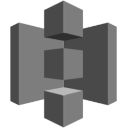
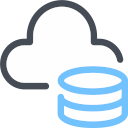
ui backup: add azure and generic S3 repository
Other changes:
- improve repository placeholders
- change generic S3 icon

diff --git a/core/ui/src/components/backup/AddRepositoryModal.vue b/core/ui/src/components/backup/AddRepositoryModal.vue
@@ -58,7 +58,6 @@
                   value="providerValue"
                   @click="selectAzure()"
                   class="provider-card"
-                  disabled
                 >
                   <div class="provider-card-content">
                     <div class="provider-icon">
@@ -105,7 +104,6 @@
                   value="providerValue"
                   @click="selectGenericS3()"
                   class="provider-card"
-                  disabled
                 >
                   <div class="provider-card-content">
                     <div class="provider-icon">
@@ -135,7 +133,7 @@
             :label="$t('backup.url')"
             v-model.trim="url"
             :invalid-message="error.url"
-            :placeholder="$t('backup.url_placeholder')"
+            :placeholder="$t('backup.'+selectedProviderHelper)"
             :disabled="loading.addBackupRepository"
             :prefix="selectedProviderPrefix"
             ref="url"
@@ -192,9 +190,47 @@
             ></cv-text-input>
           </template>
           <!-- azure -->
-          <template v-if="isAzureSelected"> azure //// </template>
+          <template v-if="isAzureSelected">
+            <cv-text-input
+              :label="$t('backup.azure_account_name')"
+              v-model.trim="azure.azure_account_name"
+              :invalid-message="error.azure.azure_account_name"
+              :disabled="loading.addBackupRepository"
+              ref="azure_account_name"
+            >
+            </cv-text-input>
+            <cv-text-input
+              :label="$t('backup.azure_account_key')"
+              type="password"
+              v-model.trim="azure.azure_account_key"
+              :disabled="loading.addBackupRepository"
+              :invalid-message="error.aws.azure_account_key"
+              :password-hide-label="$t('password.hide_password')"
+              :password-show-label="$t('password.show_password')"
+              ref="azure_account_key"
+            ></cv-text-input>
+             </template>
           <!-- generic s3 -->
-          <template v-if="isGenericS3Selected"> generic s3 //// </template>
+          <template v-if="isGenericS3Selected">
+            <cv-text-input
+              :label="$t('backup.genericS3_access_key_id')"
+              v-model.trim="genericS3.aws_access_key_id"
+              :invalid-message="error.genericS3.aws_access_key_id"
+              :disabled="loading.addBackupRepository"
+              ref="genericS3_access_key_id"
+            >
+            </cv-text-input>
+            <cv-text-input
+              :label="$t('backup.genericS3_secret_access_key')"
+              type="password"
+              v-model.trim="genericS3.aws_secret_access_key"
+              :disabled="loading.addBackupRepository"
+              :invalid-message="error.genericS3.aws_secret_access_key"
+              :password-hide-label="$t('password.hide_password')"
+              :password-show-label="$t('password.show_password')"
+              ref="genericS3_secret_access_key"
+            ></cv-text-input>
+          </template>
           <!-- //// handle ALL providers -->
           <cv-text-input
             :label="$t('backup.repository_name')"
@@ -278,10 +314,14 @@ export default {
         repoPrefix: "s3:s3.amazonaws.com/",
       },
       genericS3: {
-        repoPrefix: "",
+        aws_access_key_id: "",
+        aws_secret_access_key: "",
+        repoPrefix: "s3:",
       },
       azure: {
-        repoPrefix: "",
+        azure_account_key: "",
+        azure_account_name: "",
+        repoPrefix: "azure:",
       },
       //// handle all providers
       loading: {
@@ -301,8 +341,14 @@ export default {
           aws_default_region: "",
           aws_secret_access_key: "",
         },
-        genericS3: {},
-        azure: {},
+        genericS3: {
+          aws_access_key_id: "",
+          aws_default_region: "",
+        },
+        azure: {
+          azure_account_key: "",
+          azure_account_name: "",
+        },
         //// handle all providers
       },
     };
@@ -337,7 +383,20 @@ export default {
     selectedProviderPrefix() {
       return this[this.selectedProvider].repoPrefix;
     },
-  },
+    selectedProviderHelper() {
+      if (this.isBackblazeSelected) {
+        return "backblaze_placeholder";
+      } else if (this.isAmazonS3Selected) {
+        return "aws_placeholder";
+      } else if (this.isGenericS3Selected) {
+        return "s3_placeholder";
+      } else if (this.isAzureSelected) {
+        return "azure_placeholder";
+      } else {
+        return 'url_placeholder';
+      }
+    }
+     },
   watch: {
     isShown: function () {
       if (this.isShown) {
@@ -391,6 +450,12 @@ export default {
       this.aws.aws_access_key_id = "";
       this.aws.aws_default_region = "";
       this.aws.aws_secret_access_key = "";
+
+      this.genericS3.aws_access_key_id = "";
+      this.genericS3.aws_secret_access_key = "";
+
+      this.azure.azure_account_name = "";
+      this.azure.azure_account_key = "";
 
       //// handle ALL providers
     },
@@ -447,10 +512,15 @@ export default {
             aws_access_key_id: this.aws.aws_access_key_id,
             aws_secret_access_key: this.aws.aws_secret_access_key,
           };
+        case "genericS3":
+          return {
+            aws_access_key_id: this.genericS3.aws_access_key_id,
+            aws_secret_access_key: this.genericS3.aws_secret_access_key,
+          };
         case "azure":
           return {
-            azure_account_name: "",
-            azure_account_key: "",
+            azure_account_name: this.azure.azure_account_name,
+            azure_account_key: this.azure.azure_account_key,
           };
       }
       //// handle all providers
@@ -582,16 +652,113 @@ export default {
       this.error.name = "";
       this.error.url = "";
       this.error.repoConnection = "";
-      console.error("not implemented");
-      return false;
+
+      this.error.genericS3.aws_access_key_id = "";
+      this.error.genericS3.aws_default_region = "";
+      this.error.genericS3.aws_secret_access_key = "";
+
+      let isValidationOk = true;
+
+      if (!this.url) {
+        this.error.url = this.$t("common.required");
+
+        if (isValidationOk) {
+          this.focusElement("url");
+          isValidationOk = false;
+        }
+      } else if (this.url.includes(" ")) {
+        // wrong url protocol
+        this.error.url = this.$t("backup.invalid_url");
+
+        if (isValidationOk) {
+          this.focusElement("url");
+          isValidationOk = false;
+        }
+      }
+
+      if (!this.genericS3.aws_access_key_id) {
+        this.error.genericS3.aws_access_key_id = this.$t("common.required");
+
+        if (isValidationOk) {
+          this.focusElement("genericS3_access_key_id");
+          isValidationOk = false;
+        }
+      }
+
+      if (!this.genericS3.aws_secret_access_key) {
+        this.error.genericS3.aws_secret_access_key = this.$t("common.required");
+
+        if (isValidationOk) {
+          this.focusElement("genericS3_secret_access_key");
+          isValidationOk = false;
+        }
+      }
+
+      if (!this.name) {
+        this.error.name = this.$t("common.required");
+
+        if (isValidationOk) {
+          this.focusElement("name");
+          isValidationOk = false;
+        }
+      }
+      return isValidationOk;
     },
     validateAddAzureRepository() {
       // clear errors
       this.error.name = "";
       this.error.url = "";
       this.error.repoConnection = "";
-      console.error("not implemented");
-      return false;
+
+      this.error.azure.azure_account_name = "";
+      this.error.azure.azure_account_key = "";
+
+      let isValidationOk = true;
+
+      if (!this.url) {
+        this.error.url = this.$t("common.required");
+
+        if (isValidationOk) {
+          this.focusElement("url");
+          isValidationOk = false;
+        }
+      } else if (this.url.includes(" ")) {
+        // wrong url protocol
+        this.error.url = this.$t("backup.invalid_url");
+
+        if (isValidationOk) {
+          this.focusElement("url");
+          isValidationOk = false;
+        }
+      }
+
+      if (!this.azure.azure_account_name) {
+        this.error.azure.azure_account_name = this.$t("common.required");
+
+        if (isValidationOk) {
+          this.focusElement("azure_account_name");
+          isValidationOk = false;
+        }
+      }
+
+      if (!this.azure.azure_account_key) {
+        this.error.azure.azure_account_key = this.$t("common.required");
+
+        if (isValidationOk) {
+          this.focusElement("azure_account_key");
+          isValidationOk = false;
+        }
+      }
+
+      if (!this.name) {
+        this.error.name = this.$t("common.required");
+
+        if (isValidationOk) {
+          this.focusElement("name");
+          isValidationOk = false;
+        }
+      }
+      return isValidationOk;
     },
     validateAddBackupRepository() {
       switch (this.selectedProvider) {
@@ -631,7 +798,7 @@ export default {
           action: taskAction,
           data: {
             name: this.name,
-            provider: this.selectedProvider,
+            provider: this.selectedProvider == 'genericS3' ? 'generic-s3' : this.selectedProvider,
             url: this.selectedProviderPrefix + this.url,
             parameters: this.buildRepositoryParameters(),
             password: this.password,
